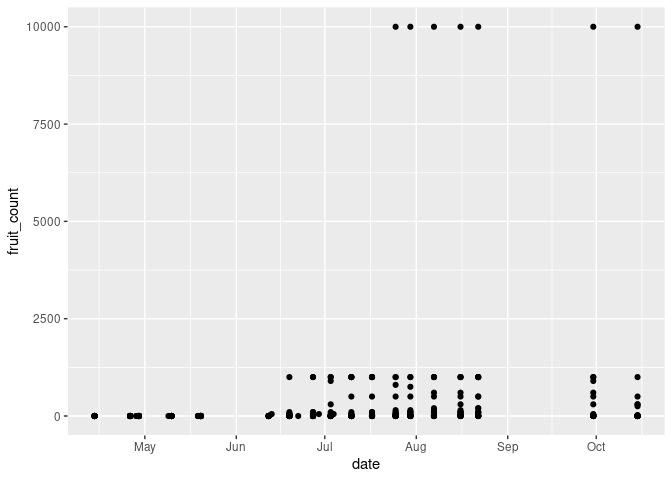
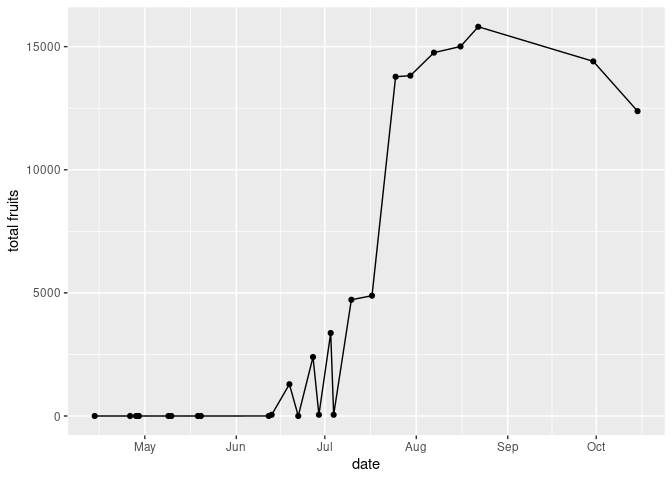
Complete total fruits graph

diff --git a/proposal/proposal.md b/proposal/proposal.md
@@ -314,13 +314,15 @@ ggplot(mapping =
 # Graph total fruits over time
 hurricane_plants %>%
   mutate(date = mdy(date)) %>%
-#   mutate(total_fruits, group_by(date(sum(fruit_count)))
+  group_by(date) %>%
+  summarise(total_fruits = sum(fruit_count, na.rm = T)) %>%
   ggplot(aes(
     x = date,
-    y = fruit_count)) +
- geom_point()
+    y = total_fruits)) +
+ geom_point() +
+  labs(x = "date",
+       y = "total fruits") +
+  geom_line()
 ```
-
-    ## Warning: Removed 39 rows containing missing values (`geom_point()`).
 
 ![](proposal_files/figure-gfm/total_fruits-1.png)<!-- -->
